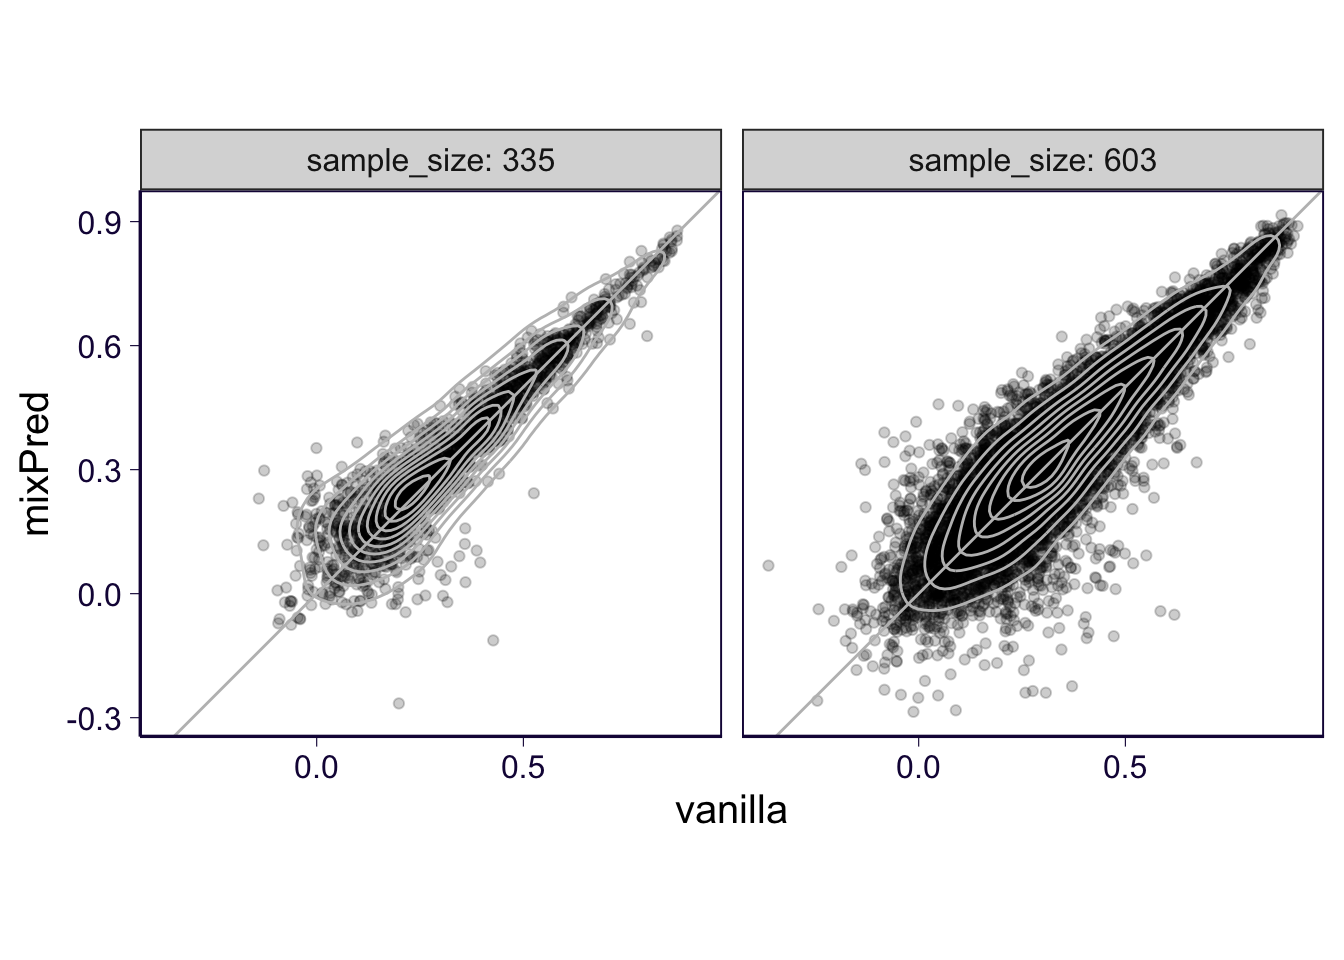
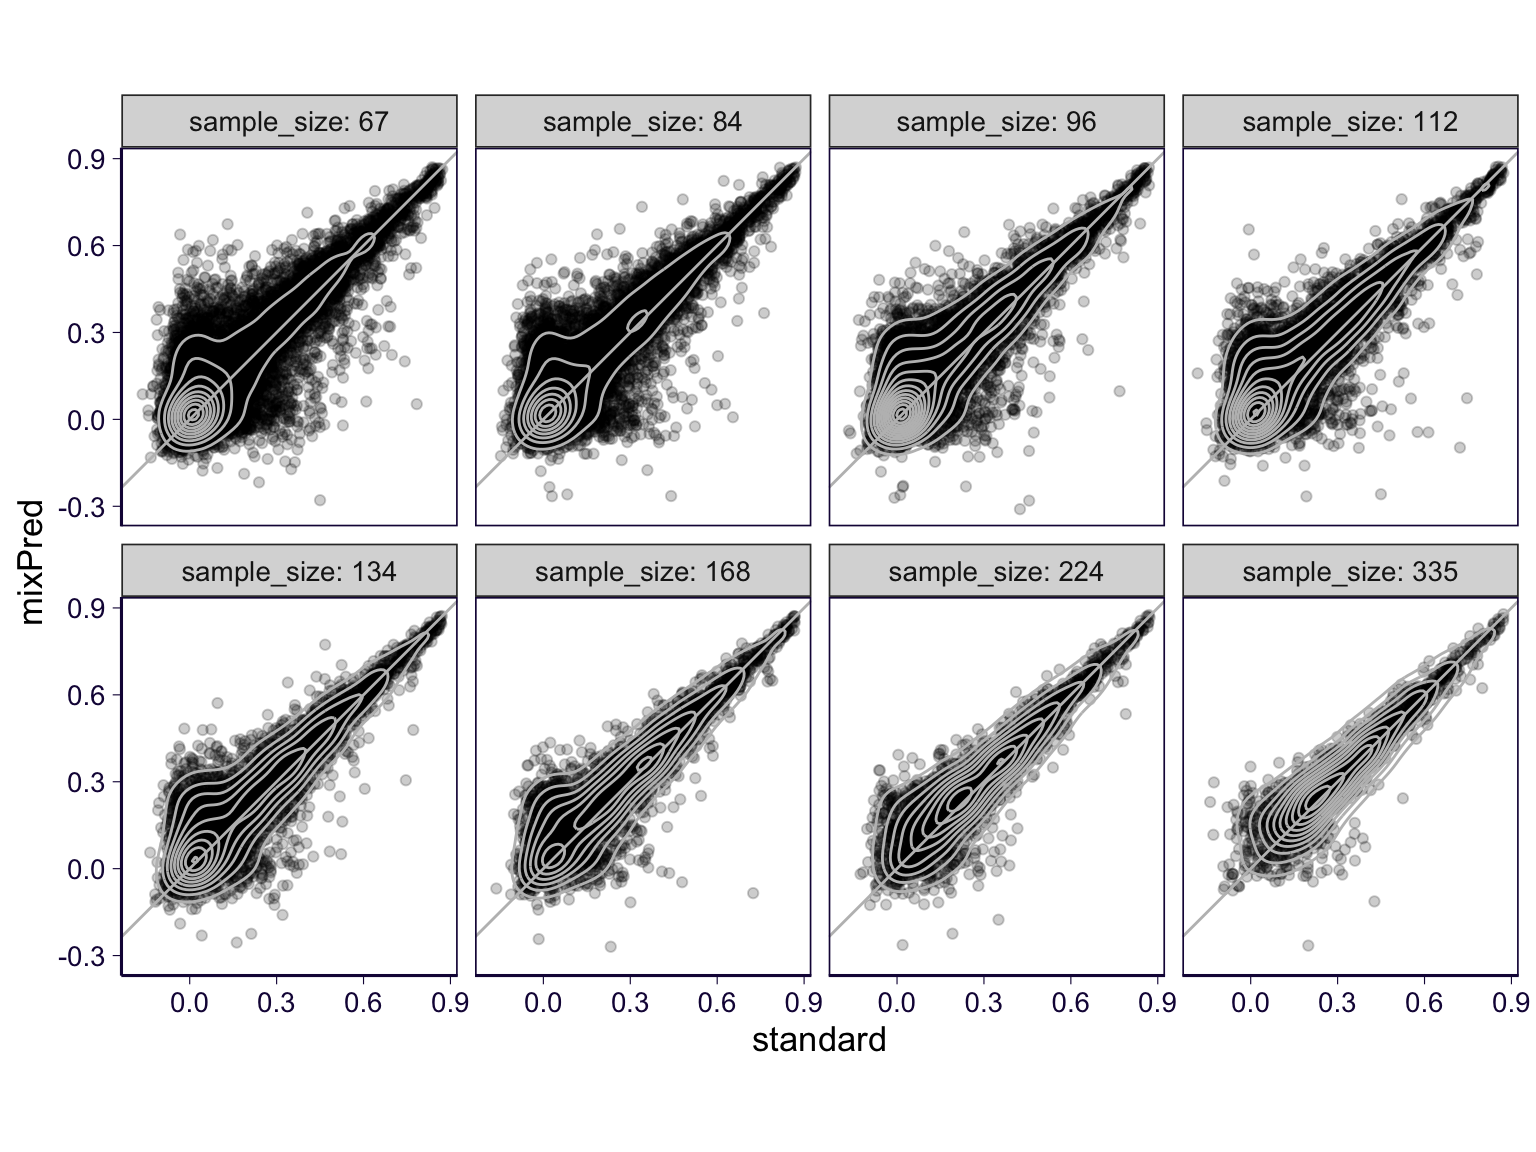
minor change

diff --git a/docs/gtex_v8_prediction_cv.html b/docs/gtex_v8_prediction_cv.html
@@ -376,16 +376,18 @@ div.tocify {
 
 <pre class="r"><code>rm(list = ls())
 library(ggplot2)
-theme_set(theme_bw(base_size = 15))
+theme_set(theme_bw(base_size = 13))
 library(dplyr)
 library(reshape2)
 library(data.table)
+library(pander)
 options(datatable.fread.datatable = FALSE)
 options(stringsAsFactors = FALSE)
+panderOptions(&#39;table.split.table&#39;, Inf)
 source(&#39;../code/rlib_analysis.R&#39;)
 datadir = &#39;/Users/yanyul/Desktop/mixqtl-pipeline-results/postprocess-prediction&#39;
-cbPalette &lt;- c(&#39;ascQTL&#39; = &quot;#999999&quot;, &#39;mixPred&#39; = &quot;#E69F00&quot;, &#39;trcQTL&#39; = &quot;#56B4E9&quot;, &#39;vanilla&#39; = &quot;#009E73&quot;, &quot;#F0E442&quot;, &quot;#0072B2&quot;, &quot;#D55E00&quot;, &quot;#CC79A7&quot;)
-source(&#39;https://gist.githubusercontent.com/liangyy/43912b3ecab5d10c89f9d4b2669871c9/raw/8151c6fe70e3d4ee43d9ce340ecc0eb65172e616/my_ggplot_theme.R&#39;)
+cbPalette &lt;- c(&#39;ascQTL&#39; = &quot;#999999&quot;, &#39;mixPred&#39; = &quot;#E69F00&quot;, &#39;trcQTL&#39; = &quot;#56B4E9&quot;, &#39;standard&#39; = &quot;#009E73&quot;, &quot;#F0E442&quot;, &quot;#0072B2&quot;, &quot;#D55E00&quot;, &quot;#CC79A7&quot;)
+source(&#39;https://gist.githubusercontent.com/liangyy/43912b3ecab5d10c89f9d4b2669871c9/raw/3ca651cfa53ffccb8422f432561138a46e93710f/my_ggplot_theme.R&#39;)
 th$panel.border = element_rect(colour = th$axis.line$colour)
 ifrun = FALSE</code></pre>
 <div id="analysis-plan" class="section level1">
@@ -394,56 +396,165 @@ ifrun = FALSE</code></pre>
 </div>
 <div id="load-results" class="section level1">
 <h1><span class="header-section-number">2</span> Load results</h1>
-<pre class="r"><code>method_df = data.frame(method = c(&#39;mixpred&#39;, &#39;nepred&#39;), tag = c(&#39;mixPred&#39;, &#39;vanilla&#39;))
+<pre class="r"><code>method_df = data.frame(method = c(&#39;mixpred&#39;, &#39;nepred&#39;), tag = c(&#39;mixPred&#39;, &#39;standard&#39;))
 full_sample_size = 670
-partitions = c(10, 2)
+partitions = c(2:8, 10)
 out = list()
 for(part in partitions) {
   for(i in 1 : nrow(method_df)) {
     tmp_ = read.table(paste0(datadir, &#39;/&#39;, &#39;Whole_Blood-x-indiv_partition-gtex_v8_whole_blood_partition_&#39;, part, &#39;-performance-&#39;, method_df$method[i], &#39;.txt.gz&#39;), header = T, )
-    out[[length(out) + 1]] = tmp_ %&gt;% mutate(method = method_df$tag[i], split = part, sample_size = full_sample_size * (part - 1) / part)
+    out[[length(out) + 1]] = tmp_ %&gt;% mutate(method = method_df$tag[i], split = part, sample_size = ceiling(full_sample_size / part))
   }
 }
 df = do.call(rbind, out)</code></pre>
 <!-- # QC -->
 <!-- ```{r} -->
-<!-- passed_genes = df %>% filter(method == 'vanilla') %>% group_by(gene, sample_size, partition) %>% summarize(min_cor = min(pearson_correlation)) %>% filter(min_cor > -100) %>% pull(gene) -->
+<!-- passed_genes = df %>% filter(method == 'standard') %>% group_by(gene, sample_size, partition) %>% summarize(min_cor = min(pearson_correlation)) %>% filter(min_cor > -100) %>% pull(gene) -->
 <!-- ``` -->
 </div>
 <div id="plot-pearson-correlation-comparison" class="section level1">
 <h1><span class="header-section-number">3</span> Plot Pearson correlation comparison</h1>
 <p>Median correlation across partitions.</p>
-<pre class="r"><code>p = df %&gt;% group_by(gene, method, sample_size) %&gt;% summarize(pearson = median(pearson_correlation)) %&gt;% select(gene, pearson, method, sample_size) %&gt;% dcast(gene + sample_size ~ method, value.var = &#39;pearson&#39;) %&gt;% ggplot(aes(x = vanilla, y = mixPred)) + geom_point(alpha = .3) + geom_density2d(color = &#39;gray&#39;) + geom_abline(slope = 1, intercept = 0, color = &#39;gray&#39;) + facet_wrap(~sample_size, labeller = label_both) + th + coord_equal()</code></pre>
-<pre><code>## Warning in dcast(., gene + sample_size ~ method, value.var = &quot;pearson&quot;): The dcast generic in data.table
-## has been passed a grouped_df and will attempt to redirect to the reshape2::dcast; please note that
-## reshape2 is deprecated, and this redirection is now deprecated as well. Please do this redirection
-## yourself like reshape2::dcast(.). In the next version, this warning will become an error.</code></pre>
+<pre class="r"><code>p = df %&gt;% group_by(gene, method, sample_size) %&gt;% summarize(pearson = median(pearson_correlation)) %&gt;% select(gene, pearson, method, sample_size) %&gt;% dcast(gene + sample_size ~ method, value.var = &#39;pearson&#39;) %&gt;% ggplot(aes(x = standard, y = mixPred)) + geom_point(alpha = .3) + geom_density2d(color = &#39;gray&#39;) + geom_abline(slope = 1, intercept = 0, color = &#39;gray&#39;) + facet_wrap(~sample_size, labeller = label_both, ncol=4) + th2 + coord_equal()</code></pre>
+<pre><code>## Warning in dcast(., gene + sample_size ~ method, value.var = &quot;pearson&quot;): The dcast generic in
+## data.table has been passed a grouped_df and will attempt to redirect to the reshape2::dcast;
+## please note that reshape2 is deprecated, and this redirection is now deprecated as well.
+## Please do this redirection yourself like reshape2::dcast(.). In the next version, this
+## warning will become an error.</code></pre>
 <pre class="r"><code>p </code></pre>
-<p><img src="gtex_v8_prediction_cv_files/figure-html/plot_pearson_scatter-1.png" width="672" /></p>
-<pre class="r"><code>ggsave(filename = &#39;../output/gtex-v8-pipeline-mixpred-with-gene-qc-pearson.png&#39;, height = 4, width = 7)</code></pre>
+<p><img src="gtex_v8_prediction_cv_files/figure-html/plot_pearson_scatter-1.png" width="768" /></p>
+<pre class="r"><code>ggsave(filename = &#39;../output/gtex-v8-pipeline-mixpred-with-gene-qc-pearson.png&#39;, height = 6, width = 8)</code></pre>
 <p>All pairwise comparison.</p>
-<pre class="r"><code>df %&gt;% select(gene, pearson_correlation, method, partition, sample_size) %&gt;% dcast(gene + partition + sample_size ~ method , value.var = &#39;pearson_correlation&#39;) %&gt;% ggplot(aes(x = vanilla, y = mixPred)) + geom_point(alpha = .2) + geom_density2d(color = &#39;gray&#39;) + geom_abline(slope = 1, intercept = 0, color = &#39;gray&#39;) + facet_wrap(~sample_size, labeller = label_both) + th + coord_equal()</code></pre>
-<pre><code>## Warning in dcast(., gene + partition + sample_size ~ method, value.var = &quot;pearson_correlation&quot;):
-## The dcast generic in data.table has been passed a data.frame and will attempt to redirect to the
-## reshape2::dcast; please note that reshape2 is deprecated, and this redirection is now deprecated as
-## well. Please do this redirection yourself like reshape2::dcast(.). In the next version, this warning
-## will become an error.</code></pre>
-<p><img src="gtex_v8_prediction_cv_files/figure-html/plot_pearson_box-1.png" width="672" /></p>
+<pre class="r"><code>df %&gt;% select(gene, pearson_correlation, method, partition, sample_size) %&gt;% dcast(gene + partition + sample_size ~ method , value.var = &#39;pearson_correlation&#39;) %&gt;% ggplot(aes(x = standard, y = mixPred)) + geom_point(alpha = .2) + geom_density2d(color = &#39;gray&#39;) + geom_abline(slope = 1, intercept = 0, color = &#39;gray&#39;) + facet_wrap(~sample_size, labeller = label_both, ncol=4) + th2 + coord_equal()</code></pre>
+<pre><code>## Warning in dcast(., gene + partition + sample_size ~ method, value.var =
+## &quot;pearson_correlation&quot;): The dcast generic in data.table has been passed a data.frame and
+## will attempt to redirect to the reshape2::dcast; please note that reshape2 is deprecated,
+## and this redirection is now deprecated as well. Please do this redirection yourself like
+## reshape2::dcast(.). In the next version, this warning will become an error.</code></pre>
+<p><img src="gtex_v8_prediction_cv_files/figure-html/plot_pearson_box-1.png" width="768" /></p>
 <p>As violin plot.</p>
-<pre class="r"><code>p = df %&gt;% select(gene, pearson_correlation, method, partition, sample_size) %&gt;% ggplot(aes(x = method, y = pearson_correlation, fill = method)) + geom_violin() + geom_boxplot(width = .4) + facet_wrap(~sample_size, labeller = label_both) + th + scale_fill_manual(values = cbPalette) + theme(legend.position = &#39;bottom&#39;)
+<pre class="r"><code>p = df %&gt;% select(gene, pearson_correlation, method, partition, sample_size) %&gt;% ggplot(aes(x = method, y = pearson_correlation, fill = method)) + geom_violin() + geom_boxplot(width = .2) + facet_wrap(~sample_size, labeller = label_both) + th2 + scale_fill_manual(values = cbPalette) + theme(legend.position = &#39;bottom&#39;)
 p </code></pre>
-<p><img src="gtex_v8_prediction_cv_files/figure-html/plot_pearson_box2-1.png" width="672" /></p>
-<pre class="r"><code>ggsave(filename = &#39;../output/gtex-v8-pipeline-mixpred-with-gene-qc-pearson-violin.png&#39;, height = 4, width = 7)</code></pre>
-<p>Sample size comparison: 670 * 0.9 vs 670 * 0.5</p>
-<pre class="r"><code># two_cols = as.character(unique(df$sample_size))
-p = df %&gt;% select(gene, pearson_correlation, method, partition, sample_size) %&gt;% mutate(sample_size = paste(&#39;sample size =&#39;, sample_size)) %&gt;% group_by(gene, sample_size, method) %&gt;% summarize(pearson = median(pearson_correlation)) %&gt;% dcast(gene + method ~ sample_size, value.var = &#39;pearson&#39;) %&gt;% ggplot(aes(x = `sample size = 335`, y = `sample size = 603`)) + geom_point(alpha = .2) + geom_density2d(color = &#39;gray&#39;) + geom_abline(slope = 1, intercept = 0, color = &#39;gray&#39;) + facet_wrap(~method) + th</code></pre>
-<pre><code>## Warning in dcast(., gene + method ~ sample_size, value.var = &quot;pearson&quot;): The dcast generic in data.table
-## has been passed a grouped_df and will attempt to redirect to the reshape2::dcast; please note that
-## reshape2 is deprecated, and this redirection is now deprecated as well. Please do this redirection
-## yourself like reshape2::dcast(.). In the next version, this warning will become an error.</code></pre>
-<pre class="r"><code>p </code></pre>
-<p><img src="gtex_v8_prediction_cv_files/figure-html/unnamed-chunk-1-1.png" width="672" /></p>
-<pre class="r"><code>ggsave(filename = &#39;../output/gtex-v8-pipeline-mixpred-with-gene-qc-pearson-2.png&#39;, height = 4, width = 7)</code></pre>
+<p><img src="gtex_v8_prediction_cv_files/figure-html/plot_pearson_box2-1.png" width="768" /></p>
+<pre class="r"><code># ggsave(filename = &#39;../output/gtex-v8-pipeline-mixpred-with-gene-qc-pearson-violin.png&#39;, height = 4, width = 7)</code></pre>
+<pre class="r"><code>p = df %&gt;% select(gene, pearson_correlation, method, partition, sample_size) %&gt;% ggplot(aes(x = factor(sample_size), y = pearson_correlation, fill = method)) + geom_violin(position = position_dodge(width=0.8), alpha = 0.5) + geom_boxplot(width = .2, position = position_dodge(width=0.8), alpha = 0.5) + th + scale_fill_manual(values = cbPalette) + theme(legend.position = &#39;bottom&#39;) +
+  ylab(&#39;Pearson\&#39;s correlation&#39;) + xlab(&#39;Sample size&#39;)
+ggsave(filename = &#39;../output/gtex-v8-pipeline-mixpred-with-gene-qc-pearson-violin.png&#39;, height = 3, width = 6)</code></pre>
+<p>Paired t-test</p>
+<pre class="r"><code>perform_t_test = function(method, gene, score) {
+  df = data.frame(method, gene, score)
+  df1 = df %&gt;% filter(method == &#39;mixPred&#39;) 
+  df2 = df %&gt;% filter(method == &#39;standard&#39;) 
+  dd = inner_join(df1, df2, by = &#39;gene&#39;)
+  res = t.test(dd$score.x, dd$score.y, paired = T)
+  return(data.frame(pairwise_diff = res$estimate, diff_ci95_low = res$conf.int[1], diff_ci95_high = res$conf.int[2], pval = res$p.value, median_mixpred = median(dd$score.x), median_standard = median(dd$score.y)))
+}</code></pre>
+<pre class="r"><code>tmp = df %&gt;% group_by(gene, method, sample_size) %&gt;% summarize(pearson = median(pearson_correlation)) %&gt;% select(gene, pearson, method, sample_size) %&gt;% ungroup() %&gt;% group_by(sample_size) %&gt;% do(perform_t_test(.$method, .$gene, .$pearson))
+tmp %&gt;% pander</code></pre>
+<table>
+<colgroup>
+<col width="12%" />
+<col width="14%" />
+<col width="14%" />
+<col width="15%" />
+<col width="10%" />
+<col width="15%" />
+<col width="16%" />
+</colgroup>
+<thead>
+<tr class="header">
+<th align="center">sample_size</th>
+<th align="center">pairwise_diff</th>
+<th align="center">diff_ci95_low</th>
+<th align="center">diff_ci95_high</th>
+<th align="center">pval</th>
+<th align="center">median_mixpred</th>
+<th align="center">median_standard</th>
+</tr>
+</thead>
+<tbody>
+<tr class="odd">
+<td align="center">67</td>
+<td align="center">0.02802</td>
+<td align="center">0.02364</td>
+<td align="center">0.0324</td>
+<td align="center">1.244e-33</td>
+<td align="center">0.1198</td>
+<td align="center">0.06873</td>
+</tr>
+<tr class="even">
+<td align="center">84</td>
+<td align="center">0.03091</td>
+<td align="center">0.02664</td>
+<td align="center">0.03519</td>
+<td align="center">9.285e-42</td>
+<td align="center">0.1651</td>
+<td align="center">0.09827</td>
+</tr>
+<tr class="odd">
+<td align="center">96</td>
+<td align="center">0.02967</td>
+<td align="center">0.02511</td>
+<td align="center">0.03424</td>
+<td align="center">1.273e-34</td>
+<td align="center">0.1854</td>
+<td align="center">0.1187</td>
+</tr>
+<tr class="even">
+<td align="center">112</td>
+<td align="center">0.02918</td>
+<td align="center">0.02477</td>
+<td align="center">0.0336</td>
+<td align="center">1.184e-35</td>
+<td align="center">0.2094</td>
+<td align="center">0.1542</td>
+</tr>
+<tr class="odd">
+<td align="center">134</td>
+<td align="center">0.02418</td>
+<td align="center">0.01966</td>
+<td align="center">0.02871</td>
+<td align="center">1.712e-24</td>
+<td align="center">0.236</td>
+<td align="center">0.1977</td>
+</tr>
+<tr class="even">
+<td align="center">168</td>
+<td align="center">0.02363</td>
+<td align="center">0.01954</td>
+<td align="center">0.02773</td>
+<td align="center">4.424e-28</td>
+<td align="center">0.2571</td>
+<td align="center">0.2225</td>
+</tr>
+<tr class="odd">
+<td align="center">224</td>
+<td align="center">0.01795</td>
+<td align="center">0.01384</td>
+<td align="center">0.02206</td>
+<td align="center">4.01e-17</td>
+<td align="center">0.2786</td>
+<td align="center">0.2499</td>
+</tr>
+<tr class="even">
+<td align="center">335</td>
+<td align="center">0.01353</td>
+<td align="center">0.009754</td>
+<td align="center">0.0173</td>
+<td align="center">3.735e-12</td>
+<td align="center">0.2997</td>
+<td align="center">0.2838</td>
+</tr>
+</tbody>
+</table>
+<pre class="r"><code>tmp %&gt;% write.csv(&#39;../output/gtex-v8-pipeline-mixpred-with-gene-qc-pearson-pairwise-ttest.csv&#39;, quote = F)</code></pre>
+<!-- Sample size comparison -->
+<!-- ```{r} -->
+<!-- # two_cols = as.character(unique(df$sample_size)) -->
+<!-- p = df %>% select(gene, pearson_correlation, method, partition, sample_size) %>% mutate(sample_size = paste('sample size =', sample_size)) %>% group_by(gene, sample_size, method) %>% summarize(pearson = median(pearson_correlation)) %>% dcast(gene + method ~ sample_size, value.var = 'pearson') %>% ggplot(aes(x = `sample size = 335`, y = `sample size = 603`)) + geom_point(alpha = .2) + geom_density2d(color = 'gray') + geom_abline(slope = 1, intercept = 0, color = 'gray') + facet_wrap(~method) + th -->
+<!-- p  -->
+<!-- ggsave(filename = '../output/gtex-v8-pipeline-mixpred-with-gene-qc-pearson-2.png', height = 4, width = 7) -->
+<!-- ``` -->
 </div>
 
 
